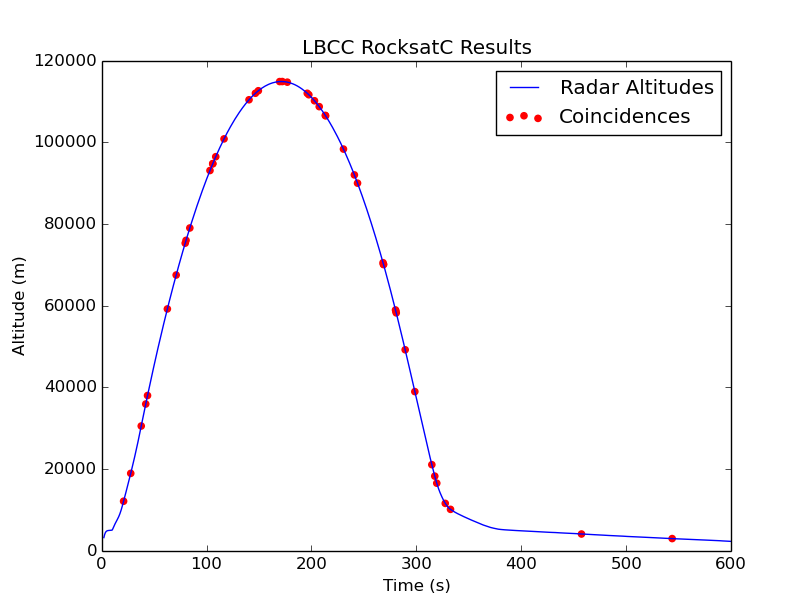
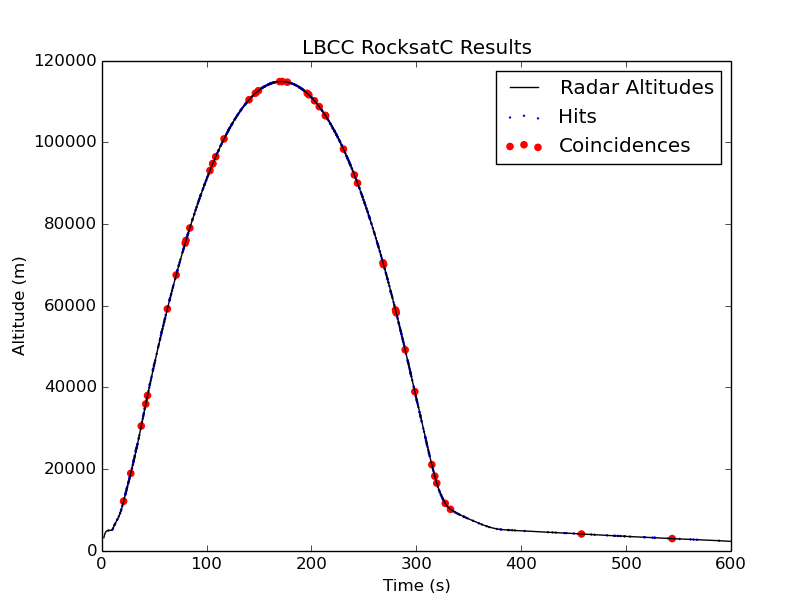
Preparing to make a new branch for reworking the approach.

diff --git a/testParse.py b/testParse.py
@@ -7,8 +7,11 @@ radar_log = "logs/RSC2015_RadarData/NRW-5600 Terrier Improved" \
 
 coTimes = []
 coAltitudes = []
+hitTimes = []
+hitAltitudes = []
 radTimes = []
 radAltitudes = []
+eachTubeCount = [[] for x in range(6)]
 
 # Parse our flight data
 print "Opening flight log: " + flight_log
@@ -22,14 +25,27 @@ with open(flight_log, "r") as f:
         Catch: Leading zeros are omitted
         '''
         time, tubes = hit.split()
-        if tubes.rjust(6,'0').count('0')>1:
-            coTimes.append(round(int(time)/1000000.0,1))
+        tubes = tubes.rjust(6, '0')
+        time = round(int(time)/1000000.0,1)
+        if time >= 600:
+            break
+
+        if tubes.count('0')>1:
+            coTimes.append(time)
+        else:
+            hitTimes.append(time)
+
+        # Increment individual tube counts
+        for i in range(6):
+                if(tubes[i] == '0'):
+                    eachTubeCount[i].append(time)
 
 # Parse the radar data
 print "Opening radar log: " + radar_log
 with open(radar_log, "r") as f:
     f.next()
     i = 0 # Index of coincidence
+    j = 0 # Index of hit
     for line in f:
         '''
         The radar log has a lot of data in it, but the important
@@ -45,20 +61,35 @@ with open(radar_log, "r") as f:
         # but all we care about is the first 10 minutes.
         if time >= 600:
             break
-
         if i<len(coTimes) and time >= coTimes[i]:
             coAltitudes.append(alt)
             i += 1
+        elif j<len(hitTimes) and time >= hitTimes[j]:
+            hitAltitudes.append(alt)
+            j += 1
 
         radTimes.append(time)
         radAltitudes.append(alt)
 
 print "Graphing.."
+# subplot(212) designates room for 2 plots, vertical, with plt=1
+# plt.subplot(211)
+plt.plot(radTimes, radAltitudes, label='Radar Altitudes', color='k')
+plt.scatter(hitTimes, hitAltitudes, label='Hits', s=.5, color='b')
 plt.scatter(coTimes, coAltitudes, label='Coincidences', color='r')
-plt.plot(radTimes, radAltitudes, label='Radar Altitudes')
 plt.xlabel('Time (s)')
 plt.ylabel('Altitude (m)')
 plt.title('LBCC RocksatC Results')
 plt.axis([0, 600, 0, 120000])
 plt.legend()
+
+# plt.subplot(212) #plt=2
+# hitRoundedAlts = []
+# roundTo = 5000
+# for hit in hitAltitudes:
+#     hitRoundedAlts.append(round(hit/float(roundTo))*hit)
+# plt.plot(radTimes, radAltitudes, label='Radar Altitudes', color='k')
+# plt.scatter(hitTimes, hitRoundedAlts, label='Hits', s=.5, color='b')
+# plt.axis([0, 600, 0, 120000])
+# plt.legend()
 plt.show()
